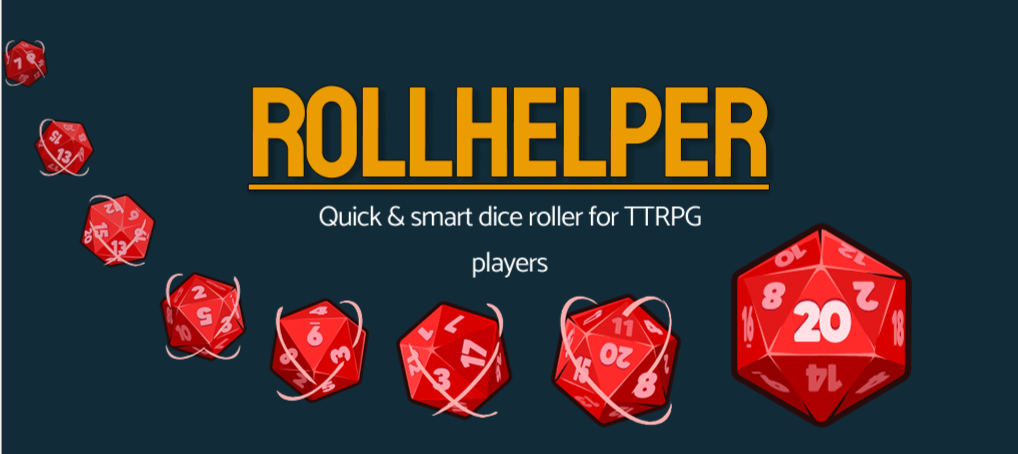
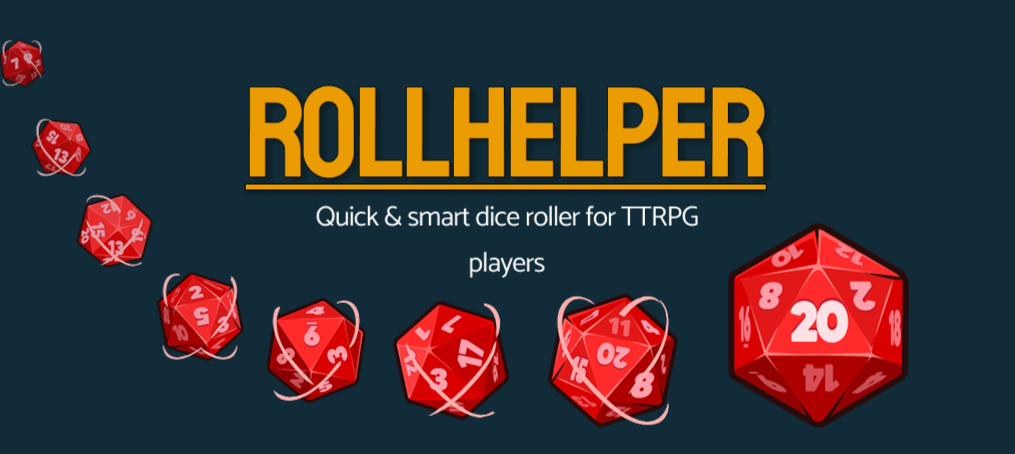
resize

diff --git a/css/style.css b/css/style.css
@@ -1,5 +1,5 @@
 .custom-banner {
-  height: 150px;
+  height: 175px;
   width: 100%;
   background-color: #112c38;
   display: flex;
